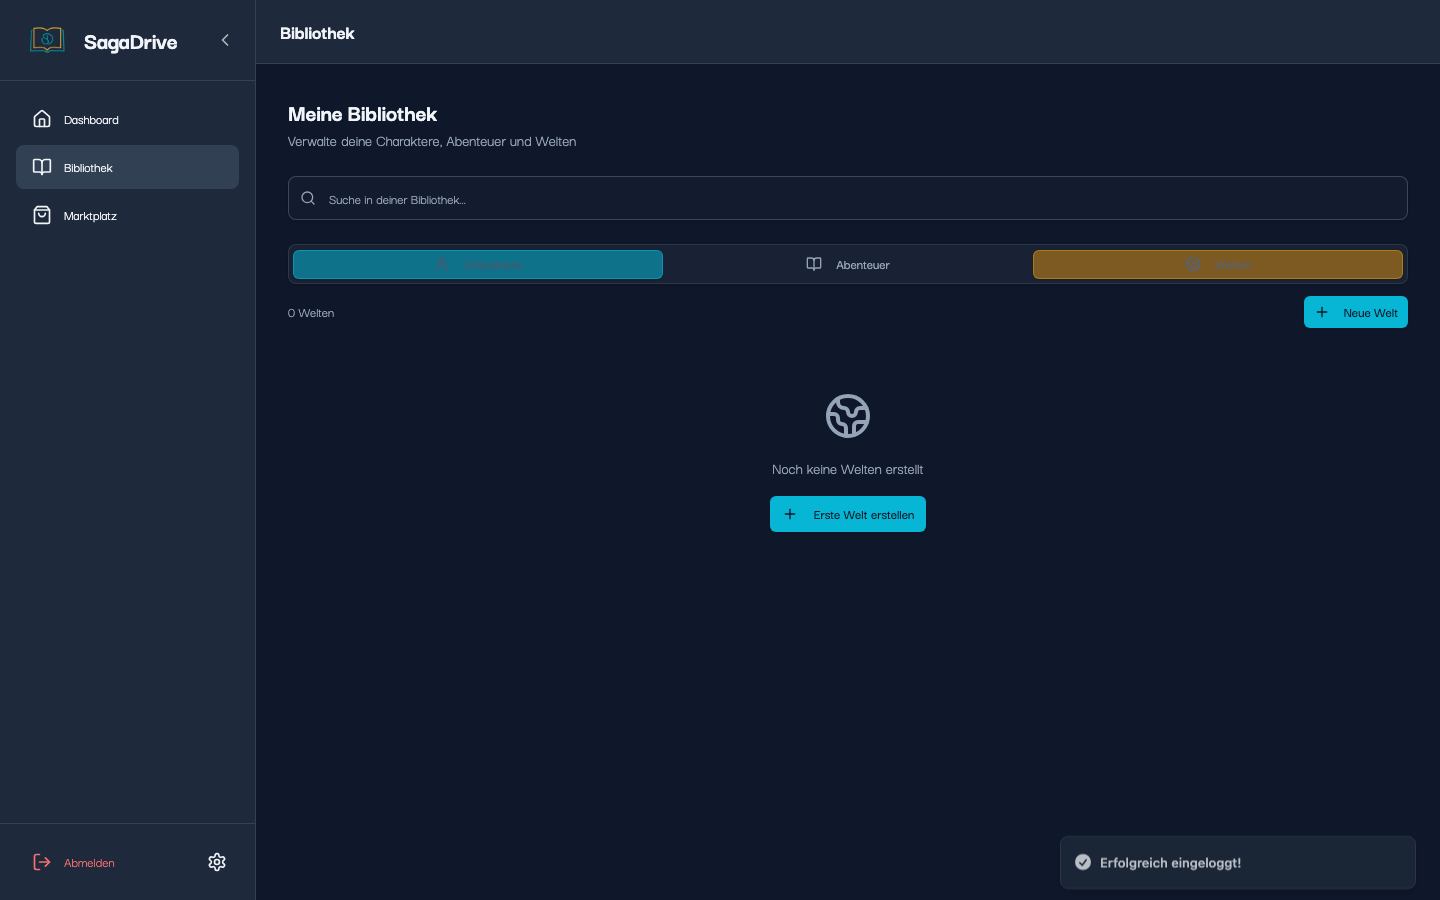
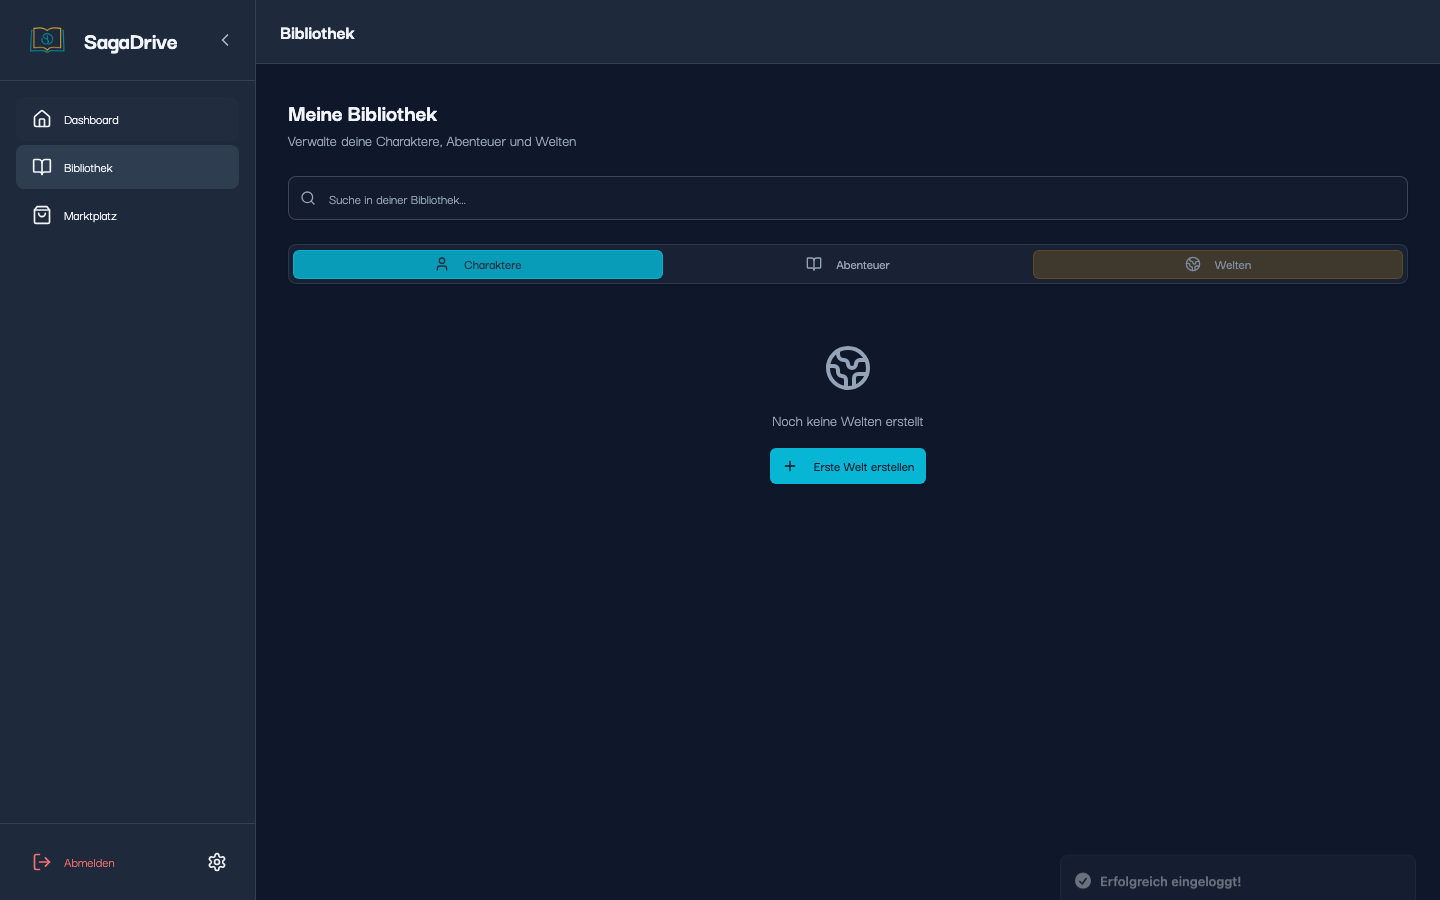
feat(library): wire worlds tab to shared EntityBrowser (#50)
- Replace the static card grid in the worlds tab with the shared
  EntityBrowser shell (carousel/list, persisted view mode via dedicated
  storage key), matching characters (#48) and adventures (#49)
- World cards show title, description and species-development mode chip
  via getSpeciesDevelopmentMode (fail-safe explicit label)
- Create/edit/delete flows unchanged through WorldProfileEditorDialog
  and existing confirm-based handlers
- Update e2e/world-profiles.spec.ts to use the empty-state CTA
  ("Erste Welt erstellen") since the EntityBrowser toolbar is not
  rendered for empty item lists
- Acceptance artifact: .qa/acceptance/library-entity-browser-worlds.md

diff --git a/src/components/Library.tsx b/src/components/Library.tsx
@@ -1,5 +1,4 @@
 import { useState } from 'react';
-import { Card, CardContent, CardDescription, CardHeader, CardTitle } from './ui/card';
 import { Button } from './ui/button';
 import { Tabs, TabsContent, TabsList, TabsTrigger } from './ui/tabs';
 import { Input } from './ui/input';
@@ -30,6 +29,7 @@ const SPECIES_DEVELOPMENT_MODE_LABELS = {
 
 const CHARACTER_VIEW_MODE_STORAGE_KEY = 'sagadrive_library_characters_view_mode';
 const ADVENTURE_VIEW_MODE_STORAGE_KEY = 'sagadrive_library_adventures_view_mode';
+const WORLD_VIEW_MODE_STORAGE_KEY = 'sagadrive_library_worlds_view_mode';
 
 const PROJECT_STATUS_LABELS: Record<ProjectVm['status'], string> = {
   active: 'Aktiv',
@@ -158,6 +158,45 @@ export function Library({ onNavigate }: LibraryProps) {
     />
   );
 
+  const renderWorld = (world: WorldProfileVm, context: EntityBrowserRenderContext) => {
+    const speciesDevelopmentMode = getSpeciesDevelopmentMode(world.modules);
+    return (
+      <EntityBrowserCard
+        title={world.name}
+        meta={world.description || 'Keine Beschreibung'}
+        imageFallback={world.name}
+        imageAlt={`Welt ${world.name}`}
+        metaChips={[
+          `Speziesentwicklung: ${SPECIES_DEVELOPMENT_MODE_LABELS[speciesDevelopmentMode]}`,
+        ]}
+        variant={context.variant}
+        isCenter={context.isCenter}
+        onOpen={context.variant === 'list' || context.isCenter ? () => openEditWorld(world) : undefined}
+        actions={
+          <>
+            <Button
+              variant="outline"
+              size="sm"
+              className="flex-1"
+              onClick={() => openEditWorld(world)}
+            >
+              <Edit className="w-3 h-3 mr-1" />
+              <span className="text-xs">Bearbeiten</span>
+            </Button>
+            <Button
+              variant="outline"
+              size="sm"
+              aria-label={`${world.name} löschen`}
+              onClick={() => void handleDeleteWorld(world)}
+            >
+              <Trash2 className="w-3 h-3 text-destructive" />
+            </Button>
+          </>
+        }
+      />
+    );
+  };
+
   const renderCharacter = (char: CharacterVm, context: EntityBrowserRenderContext) => (
     <EntityBrowserCard
       title={char.name}
@@ -190,6 +229,21 @@ export function Library({ onNavigate }: LibraryProps) {
         </>
       }
     />
+  );
+
+  const worldsEmptyState = (
+    <div className="text-center py-12">
+      <Globe2 className="w-12 h-12 mx-auto mb-4 text-muted-foreground" />
+      <p className="text-muted-foreground mb-4">
+        {searchQuery ? 'Keine Welten gefunden' : 'Noch keine Welten erstellt'}
+      </p>
+      {!searchQuery && (
+        <Button onClick={openCreateWorld}>
+          <Plus className="w-4 h-4 mr-2" />
+          Erste Welt erstellen
+        </Button>
+      )}
+    </div>
   );
 
   const charactersEmptyState = (
@@ -327,17 +381,6 @@ export function Library({ onNavigate }: LibraryProps) {
           </TabsContent>
 
           <TabsContent value="worlds" className="space-y-4">
-            <div className="flex items-center justify-between gap-3">
-              <p className="text-sm text-muted-foreground">
-                {worldsLoading ? 'Lädt...' : `${filteredWorlds.length} Welt${filteredWorlds.length !== 1 ? 'en' : ''}`}
-              </p>
-              <Button size="sm" onClick={openCreateWorld}>
-                <Plus className="w-4 h-4 mr-2" />
-                <span className="hidden sm:inline">Neue Welt</span>
-                <span className="sm:hidden">Neu</span>
-              </Button>
-            </div>
-
             {worldsError && (
               <div className="p-3 bg-destructive/10 border border-destructive rounded-lg">
                 <p className="text-sm text-destructive">{worldsError}</p>
@@ -348,61 +391,26 @@ export function Library({ onNavigate }: LibraryProps) {
               <div className="flex items-center justify-center py-12">
                 <Loader2 className="w-8 h-8 animate-spin text-muted-foreground" />
               </div>
-            ) : filteredWorlds.length === 0 ? (
-              <div className="text-center py-12">
-                <Globe2 className="w-12 h-12 mx-auto mb-4 text-muted-foreground" />
-                <p className="text-muted-foreground mb-4">
-                  {searchQuery ? 'Keine Welten gefunden' : 'Noch keine Welten erstellt'}
-                </p>
-                {!searchQuery && (
-                  <Button onClick={openCreateWorld}>
-                    <Plus className="w-4 h-4 mr-2" />
-                    Erste Welt erstellen
-                  </Button>
-                )}
-              </div>
             ) : (
-              <div className="grid grid-cols-1 sm:grid-cols-2 lg:grid-cols-3 gap-3 md:gap-4">
-                {filteredWorlds.map((world) => {
-                  const speciesDevelopmentMode = getSpeciesDevelopmentMode(world.modules);
-                  return (
-                    <Card key={world.id} className="hover:border-primary transition-colors">
-                      <CardHeader className="pb-3">
-                        <div className="flex items-start justify-between gap-3">
-                          <div className="min-w-0 flex-1">
-                            <CardTitle className="text-sm md:text-base truncate">{world.name}</CardTitle>
-                            <CardDescription className="mt-1 line-clamp-2 text-xs md:text-sm">
-                              {world.description || 'Keine Beschreibung'}
-                            </CardDescription>
-                          </div>
-                          <div className="w-12 h-12 rounded-lg bg-muted flex items-center justify-center flex-shrink-0">
-                            <Globe2 className="w-6 h-6 text-muted-foreground" />
-                          </div>
-                        </div>
-                      </CardHeader>
-                      <CardContent className="space-y-3">
-                        <p className="text-xs text-muted-foreground">
-                          Speziesentwicklung: <span className="font-medium text-foreground">{SPECIES_DEVELOPMENT_MODE_LABELS[speciesDevelopmentMode]}</span>
-                        </p>
-                        <div className="flex gap-2">
-                          <Button variant="outline" size="sm" className="flex-1" onClick={() => openEditWorld(world)}>
-                            <Edit className="w-3 h-3 mr-1" />
-                            <span className="text-xs">Bearbeiten</span>
-                          </Button>
-                          <Button
-                            variant="outline"
-                            size="sm"
-                            aria-label={`${world.name} löschen`}
-                            onClick={() => void handleDeleteWorld(world)}
-                          >
-                            <Trash2 className="w-3 h-3 text-destructive" />
-                          </Button>
-                        </div>
-                      </CardContent>
-                    </Card>
-                  );
-                })}
-              </div>
+              <EntityBrowser
+                storageKey={WORLD_VIEW_MODE_STORAGE_KEY}
+                items={filteredWorlds}
+                getId={(world) => world.id}
+                renderItem={renderWorld}
+                emptyState={worldsEmptyState}
+                toolbarLeft={
+                  <span>
+                    {filteredWorlds.length} Welt{filteredWorlds.length !== 1 ? 'en' : ''}
+                  </span>
+                }
+                toolbarRight={
+                  <Button size="sm" onClick={openCreateWorld}>
+                    <Plus className="w-4 h-4 mr-2" />
+                    <span className="hidden sm:inline">Neue Welt</span>
+                    <span className="sm:hidden">Neu</span>
+                  </Button>
+                }
+              />
             )}
           </TabsContent>
         </Tabs>

diff --git a/e2e/world-profiles.spec.ts b/e2e/world-profiles.spec.ts
@@ -97,7 +97,7 @@ test('world profiles are created and configured through the library', async ({ p
   await expect(page.getByText('Noch keine Welten erstellt')).toBeVisible();
   await page.screenshot({ path: path.join(EVIDENCE_DIR, '01-library-worlds-tab.png'), fullPage: true });
 
-  await page.getByRole('button', { name: 'Neue Welt' }).click();
+  await page.getByRole('button', { name: 'Erste Welt erstellen' }).click();
   await expect(page.getByRole('heading', { name: 'Neue Welt' })).toBeVisible();
   await expect(page.getByText('Speziesentwicklung').first()).toBeVisible();
   const modeSelect = page.getByRole('combobox', { name: 'Speziesentwicklung: Verfügbarkeit' });

diff --git a/.qa/acceptance/library-entity-browser-worlds.md b/.qa/acceptance/library-entity-browser-worlds.md
@@ -1,0 +1,49 @@
+# Feature: library-entity-browser-worlds
+
+<!-- generated by /implement on 2026-08-28 from GitHub issue #50 + design .qa/design/library-entity-browsers.md -->
+
+## Intent
+Bibliothek-Tab **Welten** auf die shared `EntityBrowser`-Shell umstellen (Carousel ↔ Liste, Fallback-Thumbs, Meta-Chip Speziesentwicklung). Bestehender `WorldProfileEditorDialog` und `useWorldProfiles` CRUD bleiben; kein Cover-Schema.
+
+## Preconditions
+- SagaDrive läuft lokal-only (`localhost:8000` / `sagadrive-db`, AGENTS.md Non-Negotiables).
+- `EntityBrowser`/`EntityBrowserCard` existieren (Slice #48, PR #58); Abenteuer-Tab bereits migriert (#49, PR #59).
+- `useWorldProfiles` liefert `WorldProfileVm` (`name`, `description`, `modules`); kein Cover-Feld.
+- `getSpeciesDevelopmentMode` normalisiert unbekannte Modes auf `explicit` (fail-safe).
+
+## Happy Path
+- [ ] Bibliothek → Tab Welten rendert über die shared `EntityBrowser`-Shell (Carousel ↔ Liste, persistierter View-Mode über eigenen Storage-Key).
+- [ ] Jede Weltkarte zeigt Titel, Beschreibung und Speziesentwicklungs-Chip (Explizit/Progressiv/Deaktiviert).
+- [ ] „Neue Welt" (Toolbar) und „Erste Welt erstellen" (Empty State) öffnen den bestehenden `WorldProfileEditorDialog`.
+- [ ] Bearbeiten/Löschen pro Karte über bestehende Flows (`openEditWorld` / `handleDeleteWorld`).
+- [ ] View-Mode-Wechsel persistiert in localStorage.
+
+## Edge Cases
+- [ ] Zero worlds → deutscher Empty State + CTA „Erste Welt erstellen" (Toolbar-CTA „Neue Welt" bleibt in `EntityBrowser`-Toolbar sichtbar).
+- [ ] Search miss → Empty State ohne CTA (Toolbar bleibt handhabbar).
+- [ ] Unknown module mode → fail-safe `explicit` Label (bestehender Normalizer `getSpeciesDevelopmentMode`).
+- [ ] Dialog cancel → keine Listen-Korruption (State bleibt, kein Half-Save).
+- [ ] localStorage unavailable → safe default (in EntityBrowser gelöst).
+
+## Scope
+### In
+- `src/components/Library.tsx` — Welten-Tab composition
+- EntityBrowser item mapping for worlds (name, description, mode chip)
+- Keep `WorldProfileEditorDialog` open/save/delete flows
+- Update `e2e/world-profiles.spec.ts` selectors if needed
+- Acceptance-Artefakt + Composition-Gate-Proof
+
+### Out
+- `supabase/migrations/008_world_profiles.sql` changes (kein Cover-Schema)
+- New world modules beyond display of existing mode
+- Character↔World / Adventure↔World binding
+- Layout/nav; Sidebar; Hosted Supabase
+
+## Security Coverage
+- Owner-scoped `world_profiles` RLS unverändert; `useWorldProfiles` nutzt context `user.id` (bereits local-admin-kompatibel, kein Service-Fix nötig).
+- Keine neuen Uploads/Endpoints/Secrets; Chips rendern nur bereits geladene Felder.
+- Delete/Edit weiter über bestehende Confirm-Flows mit owner-scoped Service-Aufrufen.
+- Out of scope: keine neuen Auth-/Upload-/Storage-Flächen.
+
+## Implementation Notes
+- (nach Implementierung ergänzen)
